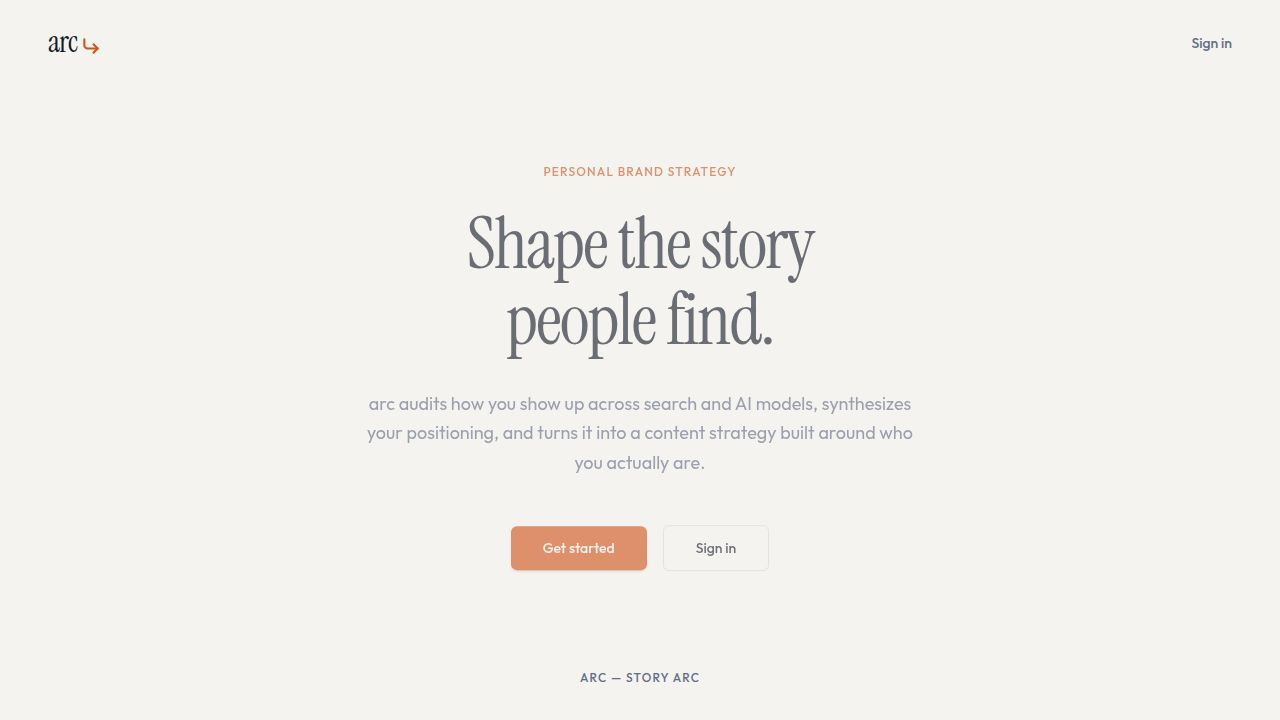
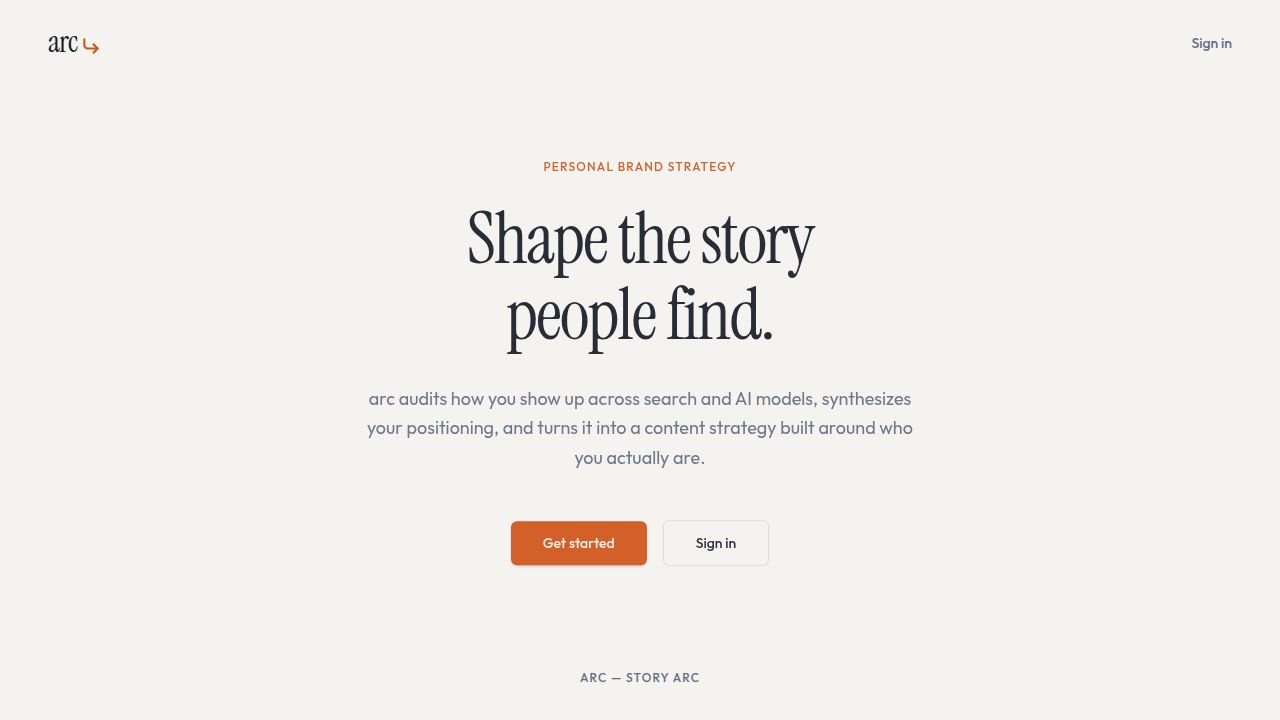
Warn before discarding unsaved narrative edits
Task #14: guard the inline editing on the Narrative page so careful edits
to core narrative, point of view, themes, platforms, and content hooks are
not silently lost.

Changes (artifacts/personal-brand/src/pages/narrative.tsx):
- Added draftHasChanges() comparing the current draft against the saved
  narrative (JSON deep-equal of draftFromNarrative), plus a shared
  DISCARD_CONFIRM_MESSAGE constant.
- Cancel now confirms before discarding, only when there are real changes.
- Retake Synthesis Interview confirms before discarding pending edits and
  clears the draft on proceed.
- Added a beforeunload listener (active only while dirty) to warn on tab
  close/refresh.
- Added a capture-phase document click listener (active only while dirty)
  that intercepts in-app anchor navigation (sidebar links) and prompts via
  window.confirm; on confirm it clears the draft, on cancel it blocks the
  navigation. Ignores modifier/new-tab clicks.
- Added a popstate guard (active only while dirty) using a sentinel history
  entry to catch browser Back/Forward navigation: prompts on back, re-traps
  to stay on cancel, steps back to leave on confirm.

No prompt appears when the draft matches the saved narrative.

Note: codegen had not been run for the existing updateNarrative endpoint;
ran `pnpm --filter @user/api-spec run codegen` so useUpdateNarrative is
generated. Typecheck passes; both workflows restart cleanly.

Replit-Task-Id: 33903c4b-590c-4338-8498-3027c721ec2c

diff --git a/artifacts/personal-brand/src/pages/narrative.tsx b/artifacts/personal-brand/src/pages/narrative.tsx
@@ -78,6 +78,17 @@ function draftFromNarrative(n: NarrativeProfile): NarrativeDraft {
   };
 }
 
+const DISCARD_CONFIRM_MESSAGE =
+  "You have unsaved changes to your narrative. Discard them?";
+
+function draftHasChanges(
+  draft: NarrativeDraft | null,
+  narrative: NarrativeProfile | undefined,
+): boolean {
+  if (!draft || !narrative) return false;
+  return JSON.stringify(draft) !== JSON.stringify(draftFromNarrative(narrative));
+}
+
 export default function Narrative() {
   const queryClient = useQueryClient();
   const { toast } = useToast();
@@ -101,6 +112,65 @@ export default function Narrative() {
 
   const generateNarrative = useGenerateNarrative();
   const updateNarrative = useUpdateNarrative();
+
+  const hasUnsavedChanges = draftHasChanges(draft, narrative);
+
+  // Warn before the browser tab is closed/refreshed mid-edit.
+  useEffect(() => {
+    if (!hasUnsavedChanges) return;
+    const handler = (e: BeforeUnloadEvent) => {
+      e.preventDefault();
+      e.returnValue = "";
+    };
+    window.addEventListener("beforeunload", handler);
+    return () => window.removeEventListener("beforeunload", handler);
+  }, [hasUnsavedChanges]);
+
+  // Warn before in-app navigation (sidebar links) discards unsaved edits.
+  useEffect(() => {
+    if (!hasUnsavedChanges) return;
+    const handler = (e: MouseEvent) => {
+      if (e.defaultPrevented) return;
+      if (e.button !== 0 || e.metaKey || e.ctrlKey || e.shiftKey || e.altKey) return;
+      const anchor = (e.target as HTMLElement | null)?.closest("a[href]");
+      if (!anchor) return;
+      const target = anchor.getAttribute("target");
+      if (target && target !== "_self") return;
+      if (window.confirm(DISCARD_CONFIRM_MESSAGE)) {
+        setDraft(null);
+      } else {
+        e.preventDefault();
+        e.stopPropagation();
+      }
+    };
+    document.addEventListener("click", handler, true);
+    return () => document.removeEventListener("click", handler, true);
+  }, [hasUnsavedChanges]);
+
+  // Warn before browser Back/Forward (popstate) discards unsaved edits.
+  // A sentinel history entry lets us intercept the first back press, prompt,
+  // and either re-trap (stay) or step back twice (leave).
+  useEffect(() => {
+    if (!hasUnsavedChanges) return;
+    let active = true;
+    window.history.pushState(null, "", window.location.href);
+    const onPopState = () => {
+      if (!active) return;
+      if (window.confirm(DISCARD_CONFIRM_MESSAGE)) {
+        active = false;
+        window.removeEventListener("popstate", onPopState);
+        setDraft(null);
+        window.history.back();
+      } else {
+        window.history.pushState(null, "", window.location.href);
+      }
+    };
+    window.addEventListener("popstate", onPopState);
+    return () => {
+      active = false;
+      window.removeEventListener("popstate", onPopState);
+    };
+  }, [hasUnsavedChanges]);
 
   const canAutoGenerate =
     !narrative && !retake && !autoGenFailed && hasCoachMaterial(client);
@@ -181,6 +251,8 @@ export default function Narrative() {
   };
 
   const startRetake = () => {
+    if (hasUnsavedChanges && !window.confirm(DISCARD_CONFIRM_MESSAGE)) return;
+    setDraft(null);
     setAnswers(Array(QUESTIONS.length).fill(""));
     setStep(0);
     setRetake(true);
@@ -190,7 +262,10 @@ export default function Narrative() {
     if (narrative) setDraft(draftFromNarrative(narrative));
   };
 
-  const cancelEdit = () => setDraft(null);
+  const cancelEdit = () => {
+    if (hasUnsavedChanges && !window.confirm(DISCARD_CONFIRM_MESSAGE)) return;
+    setDraft(null);
+  };
 
   const saveEdit = () => {
     if (!draft) return;